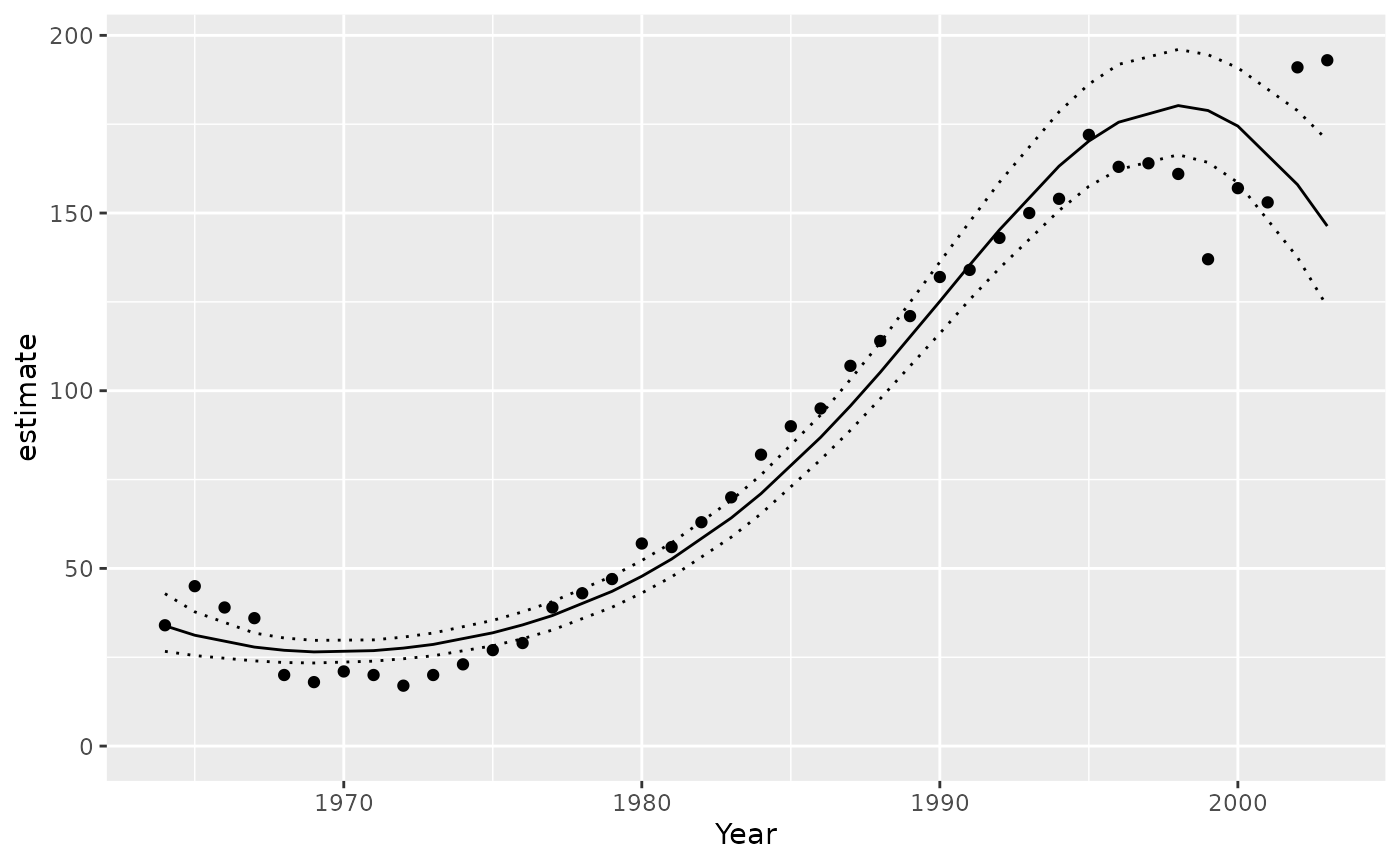
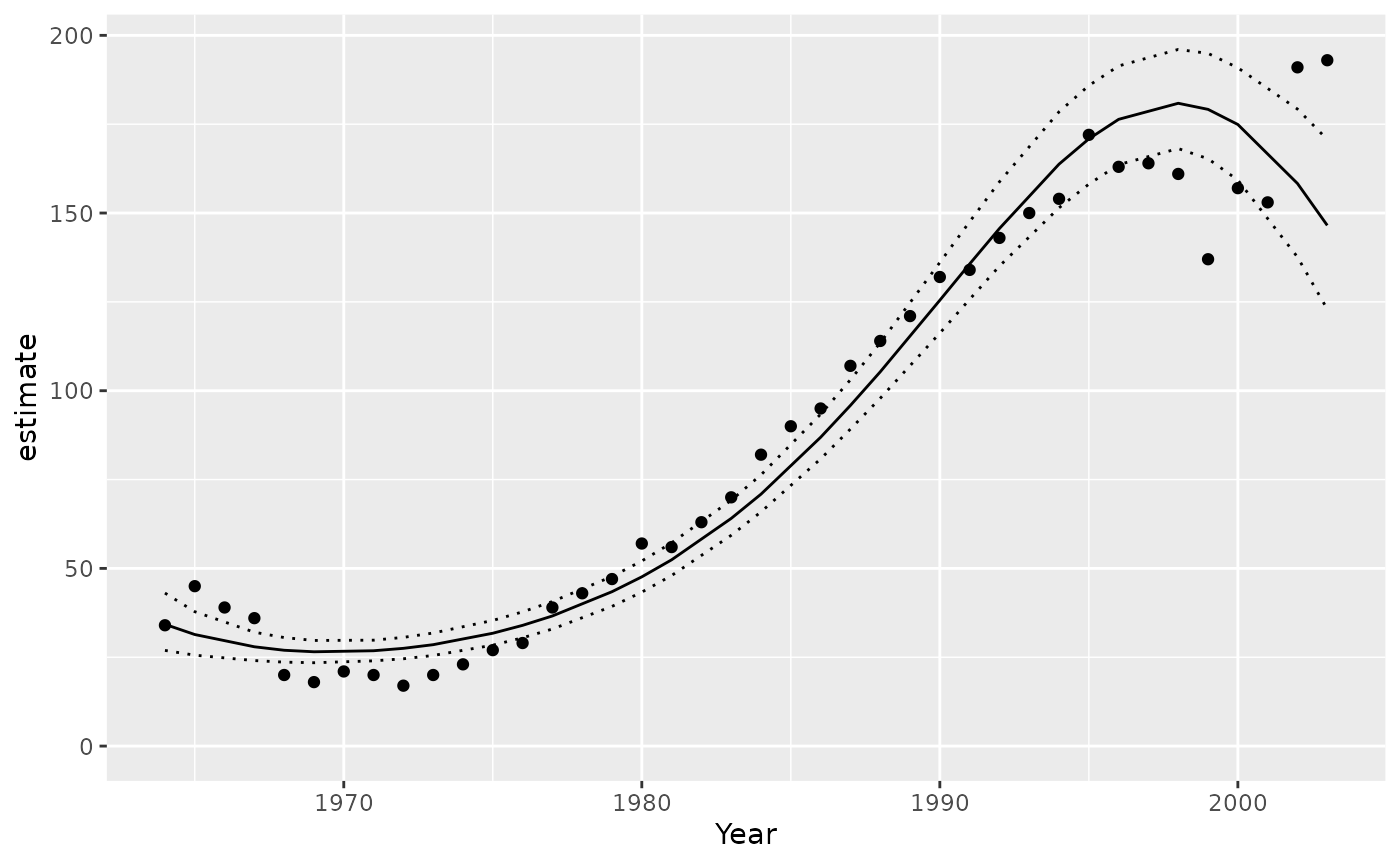
Deploying to gh-pages from @ poissonconsulting/jmbr@22f46854cec18b990d06587f7736050c2b60f1ea 🚀

diff --git a/articles/jmbr.html b/articles/jmbr.html
@@ -290,14 +290,14 @@ value and discarding all other values.</p>
 <span><span class="co">#&gt; <span style="color: #949494;"># A tibble: 1 × 8</span></span></span>
 <span><span class="co">#&gt;       n     K nchains niters nthin   ess  rhat converged</span></span>
 <span><span class="co">#&gt;   <span style="color: #949494; font-style: italic;">&lt;int&gt;</span> <span style="color: #949494; font-style: italic;">&lt;int&gt;</span>   <span style="color: #949494; font-style: italic;">&lt;int&gt;</span>  <span style="color: #949494; font-style: italic;">&lt;int&gt;</span> <span style="color: #949494; font-style: italic;">&lt;int&gt;</span> <span style="color: #949494; font-style: italic;">&lt;int&gt;</span> <span style="color: #949494; font-style: italic;">&lt;dbl&gt;</span> <span style="color: #949494; font-style: italic;">&lt;lgl&gt;</span>    </span></span>
-<span><span class="co">#&gt; <span style="color: #BCBCBC;">1</span>    40     6       3    500    10   190  1.01 TRUE</span></span>
+<span><span class="co">#&gt; <span style="color: #BCBCBC;">1</span>    40     6       3    500    10   246  1.12 FALSE</span></span>
 <span><span class="co">#&gt; Warning in value[[3L]](cond): beep() could not play the sound due to the following error:</span></span>
 <span><span class="co">#&gt; Error in play.default(x, rate, ...): no audio drivers are available</span></span>
 <span><span class="va">analysis</span> <span class="op">&lt;-</span> <span class="fu"><a href="https://rdrr.io/pkg/mbr/man/reanalyse.html" class="external-link">reanalyse</a></span><span class="op">(</span><span class="va">analysis</span><span class="op">)</span></span>
 <span><span class="co">#&gt; <span style="color: #949494;"># A tibble: 1 × 8</span></span></span>
 <span><span class="co">#&gt;       n     K nchains niters nthin   ess  rhat converged</span></span>
 <span><span class="co">#&gt;   <span style="color: #949494; font-style: italic;">&lt;int&gt;</span> <span style="color: #949494; font-style: italic;">&lt;int&gt;</span>   <span style="color: #949494; font-style: italic;">&lt;int&gt;</span>  <span style="color: #949494; font-style: italic;">&lt;int&gt;</span> <span style="color: #949494; font-style: italic;">&lt;int&gt;</span> <span style="color: #949494; font-style: italic;">&lt;int&gt;</span> <span style="color: #949494; font-style: italic;">&lt;dbl&gt;</span> <span style="color: #949494; font-style: italic;">&lt;lgl&gt;</span>    </span></span>
-<span><span class="co">#&gt; <span style="color: #BCBCBC;">1</span>    40     6       3    500    10   190  1.01 TRUE</span></span>
+<span><span class="co">#&gt; <span style="color: #BCBCBC;">1</span>    40     6       3    500    20   531  1.01 TRUE</span></span>
 <span><span class="co">#&gt; Warning in value[[3L]](cond): beep() could not play the sound due to the following error:</span></span>
 <span><span class="co">#&gt; Error in play.default(x, rate, ...): no audio drivers are available</span></span></code></pre></div>
 <p><strong>Analysis Table:</strong></p>
@@ -347,12 +347,12 @@ between- and within-chain estimates for model parameters.
 <span><span class="co">#&gt; <span style="color: #949494;"># A tibble: 6 × 7</span></span></span>
 <span><span class="co">#&gt;   term        estimate     sd  zscore   lower   upper   pvalue</span></span>
 <span><span class="co">#&gt;   <span style="color: #949494; font-style: italic;">&lt;term&gt;</span>         <span style="color: #949494; font-style: italic;">&lt;dbl&gt;</span>  <span style="color: #949494; font-style: italic;">&lt;dbl&gt;</span>   <span style="color: #949494; font-style: italic;">&lt;dbl&gt;</span>   <span style="color: #949494; font-style: italic;">&lt;dbl&gt;</span>   <span style="color: #949494; font-style: italic;">&lt;dbl&gt;</span>    <span style="color: #949494; font-style: italic;">&lt;dbl&gt;</span></span></span>
-<span><span class="co">#&gt; <span style="color: #BCBCBC;">1</span> alpha         4.26   0.040<span style="text-decoration: underline;">2</span> 106.     4.18    4.33   0.000<span style="text-decoration: underline;">666</span></span></span>
-<span><span class="co">#&gt; <span style="color: #BCBCBC;">2</span> beta1         1.18   0.071<span style="text-decoration: underline;">0</span>  16.7    1.06    1.34   0.000<span style="text-decoration: underline;">666</span></span></span>
-<span><span class="co">#&gt; <span style="color: #BCBCBC;">3</span> beta2        -<span style="color: #BB0000;">0.018</span><span style="color: #BB0000; text-decoration: underline;">4</span> 0.030<span style="text-decoration: underline;">3</span>  -<span style="color: #BB0000;">0.602</span> -<span style="color: #BB0000;">0.080</span><span style="color: #BB0000; text-decoration: underline;">3</span>  0.040<span style="text-decoration: underline;">5</span> 0.530   </span></span>
-<span><span class="co">#&gt; <span style="color: #BCBCBC;">4</span> beta3        -<span style="color: #BB0000;">0.269</span>  0.036<span style="text-decoration: underline;">1</span>  -<span style="color: #BB0000;">7.48</span>  -<span style="color: #BB0000;">0.342</span>  -<span style="color: #BB0000;">0.201</span>  0.000<span style="text-decoration: underline;">666</span></span></span>
-<span><span class="co">#&gt; <span style="color: #BCBCBC;">5</span> log_sAnnual  -<span style="color: #BB0000;">2.25</span>   0.334   -<span style="color: #BB0000;">6.86</span>  -<span style="color: #BB0000;">3.08</span>   -<span style="color: #BB0000;">1.77</span>   0.000<span style="text-decoration: underline;">666</span></span></span>
-<span><span class="co">#&gt; <span style="color: #BCBCBC;">6</span> sAnnual       0.105  0.031<span style="text-decoration: underline;">8</span>   3.36   0.045<span style="text-decoration: underline;">9</span>  0.170  0.000<span style="text-decoration: underline;">666</span></span></span></code></pre></div>
+<span><span class="co">#&gt; <span style="color: #BCBCBC;">1</span> alpha         4.26   0.038<span style="text-decoration: underline;">4</span> 111.     4.19    4.34   0.000<span style="text-decoration: underline;">666</span></span></span>
+<span><span class="co">#&gt; <span style="color: #BCBCBC;">2</span> beta1         1.19   0.072<span style="text-decoration: underline;">5</span>  16.5    1.06    1.34   0.000<span style="text-decoration: underline;">666</span></span></span>
+<span><span class="co">#&gt; <span style="color: #BCBCBC;">3</span> beta2        -<span style="color: #BB0000;">0.018</span><span style="color: #BB0000; text-decoration: underline;">4</span> 0.030<span style="text-decoration: underline;">2</span>  -<span style="color: #BB0000;">0.596</span> -<span style="color: #BB0000;">0.078</span><span style="color: #BB0000; text-decoration: underline;">5</span>  0.039<span style="text-decoration: underline;">9</span> 0.547   </span></span>
+<span><span class="co">#&gt; <span style="color: #BCBCBC;">4</span> beta3        -<span style="color: #BB0000;">0.272</span>  0.037<span style="text-decoration: underline;">6</span>  -<span style="color: #BB0000;">7.25</span>  -<span style="color: #BB0000;">0.351</span>  -<span style="color: #BB0000;">0.200</span>  0.000<span style="text-decoration: underline;">666</span></span></span>
+<span><span class="co">#&gt; <span style="color: #BCBCBC;">5</span> log_sAnnual  -<span style="color: #BB0000;">2.24</span>   0.301   -<span style="color: #BB0000;">7.52</span>  -<span style="color: #BB0000;">2.92</span>   -<span style="color: #BB0000;">1.76</span>   0.000<span style="text-decoration: underline;">666</span></span></span>
+<span><span class="co">#&gt; <span style="color: #BCBCBC;">6</span> sAnnual       0.107  0.030<span style="text-decoration: underline;">5</span>   3.55   0.054<span style="text-decoration: underline;">1</span>  0.172  0.000<span style="text-decoration: underline;">666</span></span></span></code></pre></div>
 <p>The estimate is the <strong>median</strong> by default.</p>
 <p>The zscore is <span class="math inline">\(mean / sd\)</span>.</p>
 <div class="sourceCode" id="cb12"><pre class="downlit sourceCode r">
@@ -360,12 +360,12 @@ between- and within-chain estimates for model parameters.
 <span><span class="co">#&gt; <span style="color: #949494;"># A tibble: 6 × 5</span></span></span>
 <span><span class="co">#&gt;   term        estimate   lower   upper svalue</span></span>
 <span><span class="co">#&gt;   <span style="color: #949494; font-style: italic;">&lt;term&gt;</span>         <span style="color: #949494; font-style: italic;">&lt;dbl&gt;</span>   <span style="color: #949494; font-style: italic;">&lt;dbl&gt;</span>   <span style="color: #949494; font-style: italic;">&lt;dbl&gt;</span>  <span style="color: #949494; font-style: italic;">&lt;dbl&gt;</span></span></span>
-<span><span class="co">#&gt; <span style="color: #BCBCBC;">1</span> alpha         4.26    4.18    4.33   10.6  </span></span>
-<span><span class="co">#&gt; <span style="color: #BCBCBC;">2</span> beta1         1.18    1.06    1.34   10.6  </span></span>
-<span><span class="co">#&gt; <span style="color: #BCBCBC;">3</span> beta2        -<span style="color: #BB0000;">0.018</span><span style="color: #BB0000; text-decoration: underline;">4</span> -<span style="color: #BB0000;">0.080</span><span style="color: #BB0000; text-decoration: underline;">3</span>  0.040<span style="text-decoration: underline;">5</span>  0.917</span></span>
-<span><span class="co">#&gt; <span style="color: #BCBCBC;">4</span> beta3        -<span style="color: #BB0000;">0.269</span>  -<span style="color: #BB0000;">0.342</span>  -<span style="color: #BB0000;">0.201</span>  10.6  </span></span>
-<span><span class="co">#&gt; <span style="color: #BCBCBC;">5</span> log_sAnnual  -<span style="color: #BB0000;">2.25</span>   -<span style="color: #BB0000;">3.08</span>   -<span style="color: #BB0000;">1.77</span>   10.6  </span></span>
-<span><span class="co">#&gt; <span style="color: #BCBCBC;">6</span> sAnnual       0.105   0.045<span style="text-decoration: underline;">9</span>  0.170  10.6</span></span></code></pre></div>
+<span><span class="co">#&gt; <span style="color: #BCBCBC;">1</span> alpha         4.26    4.19    4.34   10.6  </span></span>
+<span><span class="co">#&gt; <span style="color: #BCBCBC;">2</span> beta1         1.19    1.06    1.34   10.6  </span></span>
+<span><span class="co">#&gt; <span style="color: #BCBCBC;">3</span> beta2        -<span style="color: #BB0000;">0.018</span><span style="color: #BB0000; text-decoration: underline;">4</span> -<span style="color: #BB0000;">0.078</span><span style="color: #BB0000; text-decoration: underline;">5</span>  0.039<span style="text-decoration: underline;">9</span>  0.870</span></span>
+<span><span class="co">#&gt; <span style="color: #BCBCBC;">4</span> beta3        -<span style="color: #BB0000;">0.272</span>  -<span style="color: #BB0000;">0.351</span>  -<span style="color: #BB0000;">0.200</span>  10.6  </span></span>
+<span><span class="co">#&gt; <span style="color: #BCBCBC;">5</span> log_sAnnual  -<span style="color: #BB0000;">2.24</span>   -<span style="color: #BB0000;">2.92</span>   -<span style="color: #BB0000;">1.76</span>   10.6  </span></span>
+<span><span class="co">#&gt; <span style="color: #BCBCBC;">6</span> sAnnual       0.107   0.054<span style="text-decoration: underline;">1</span>  0.172  10.6</span></span></code></pre></div>
 <p>The s-value is the <strong>suprisal</strong> value, which is a
 measure of directionality with respect to zero.</p>
 <p>The s-value is zero (unsurprising) when <em>p-value</em> = 1.0 and
